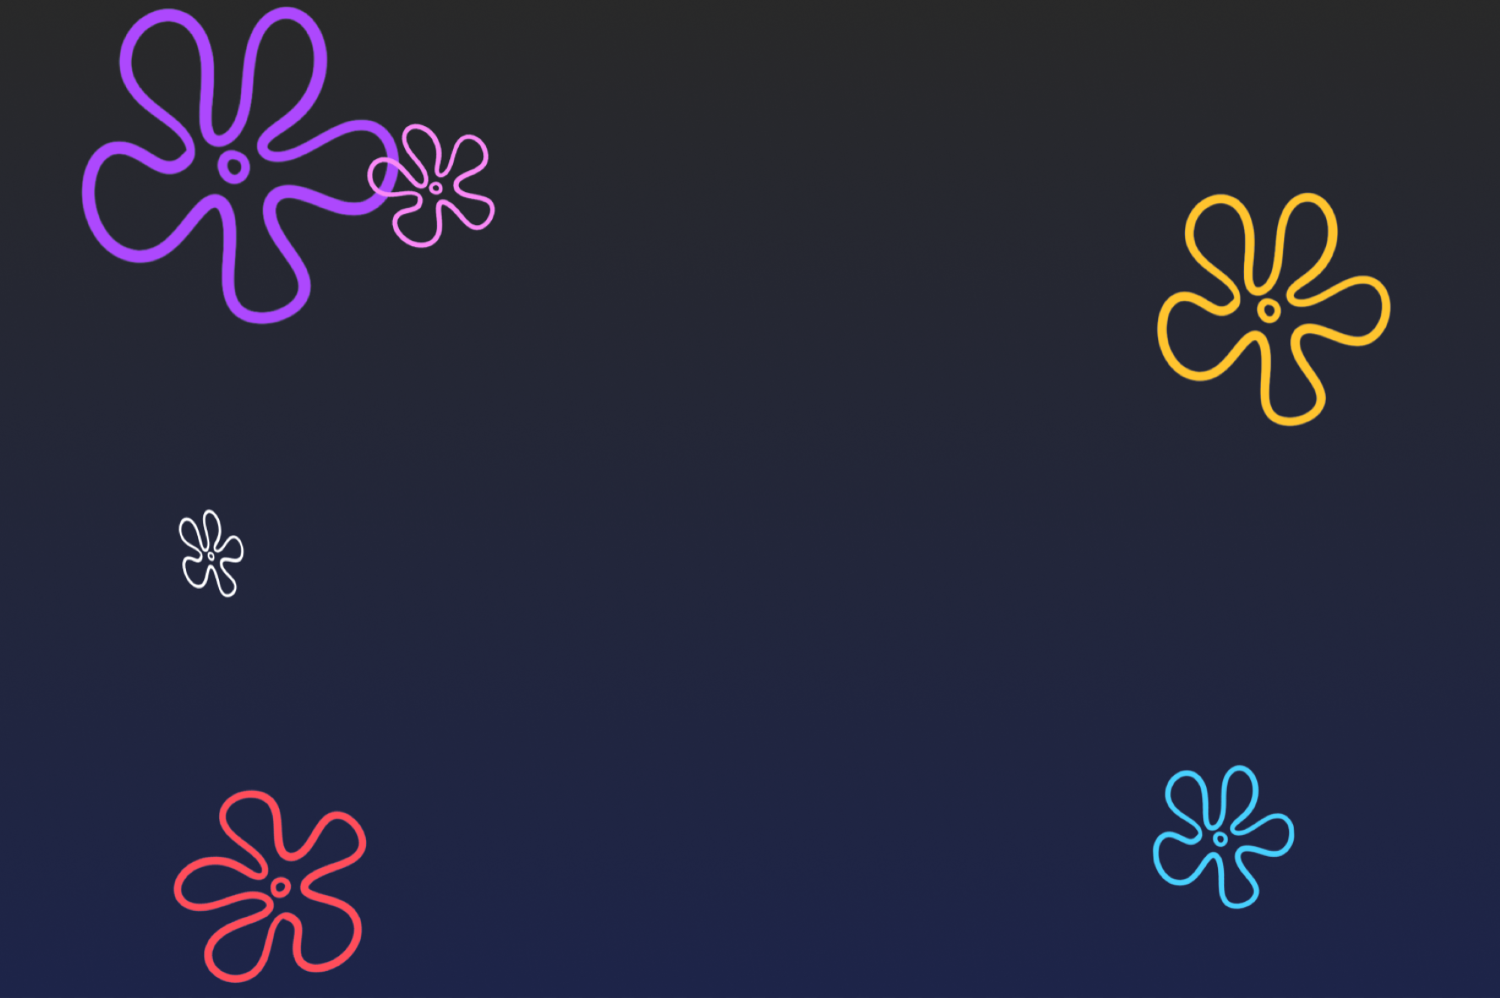
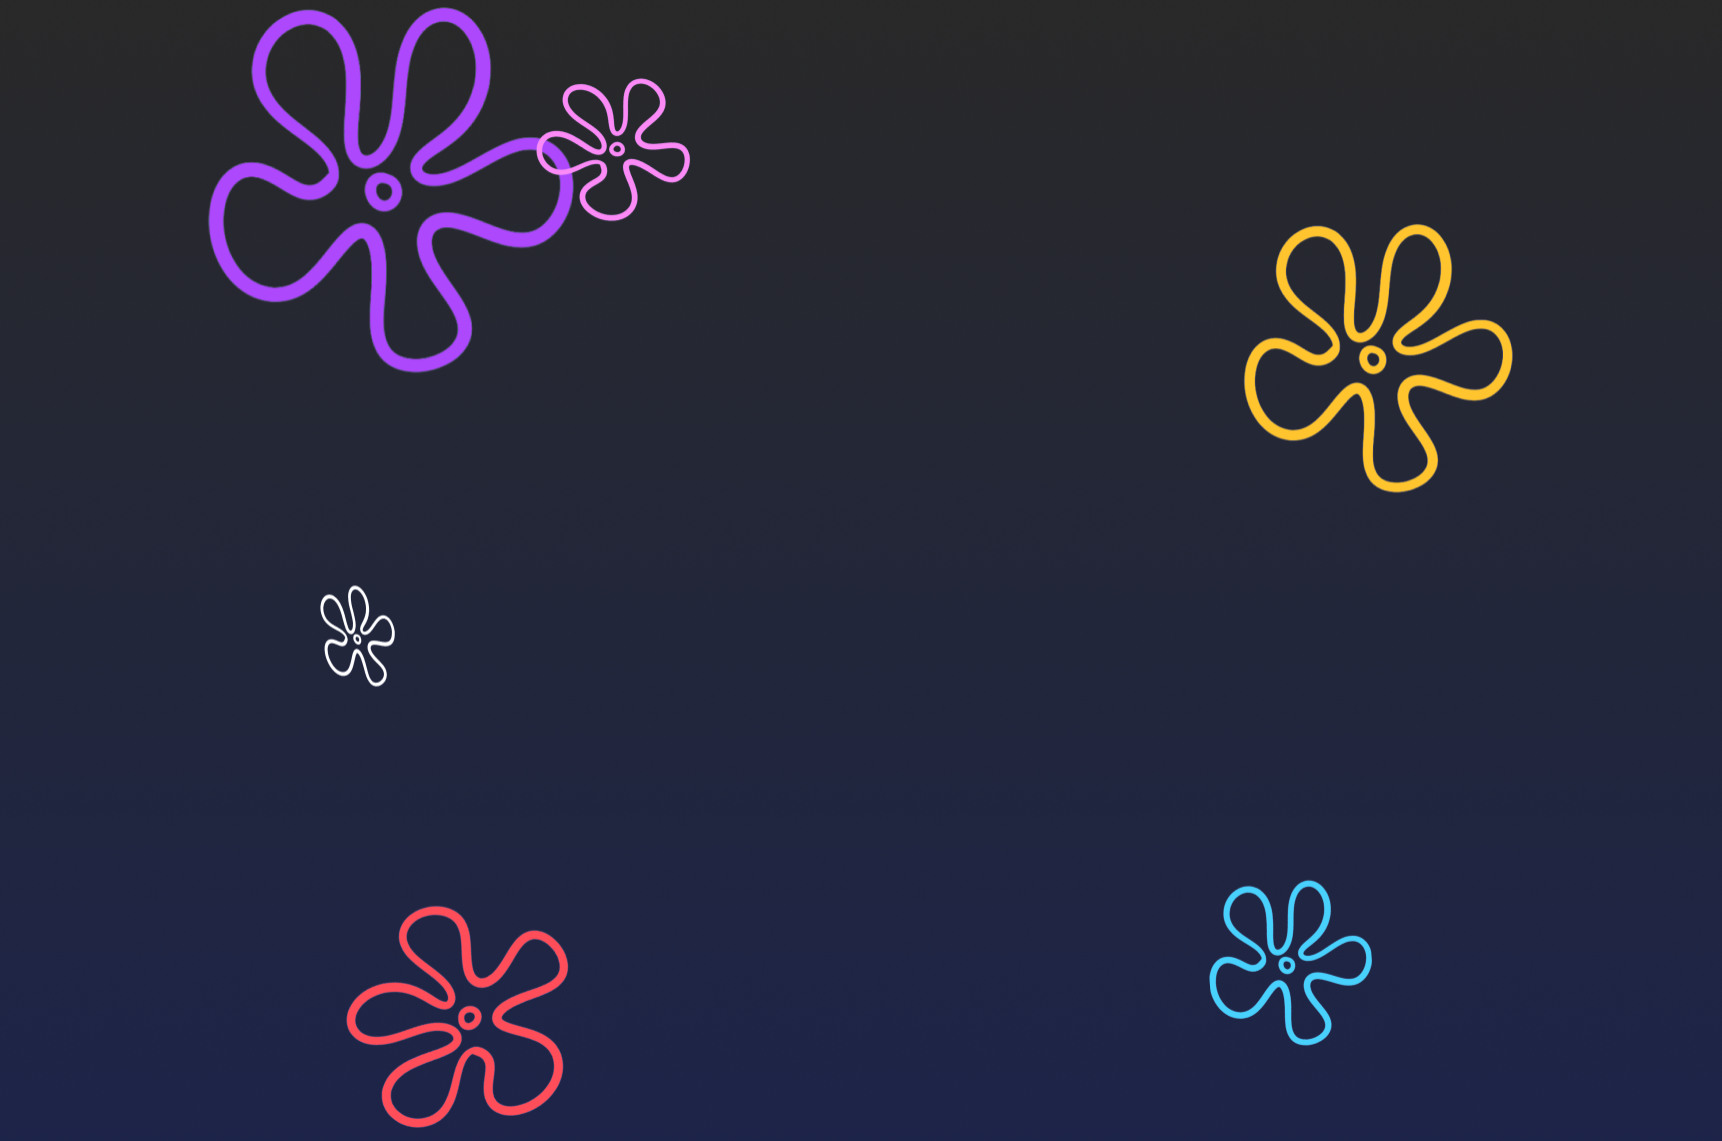
Add ba kground image for each page size. Add transitions to each page component

diff --git a/src/pages/Experience.tsx b/src/pages/Experience.tsx
@@ -1,11 +1,15 @@
-import { useEffect, useRef } from "react";
+import { useEffect, useRef, useState } from "react";
 import Background from "../components/Background";
 import ExperienceCard from "../components/ExperienceCard";
 import { experiencesData } from "../lib/data";
 
 export default function Experience() {
-    // Create a ref for the content container
+    const [isVisible, setIsVisible] = useState(false);
     const contentContainerRef = useRef<HTMLDivElement>(null);
+
+    useEffect(() => {
+        setIsVisible(true);
+    }, []);
 
     useEffect(() => {
         // Scroll to the top of the content container when the component mounts
@@ -24,7 +28,11 @@ export default function Experience() {
     return (
         <div className="relative">
             <Background />
-            <div className="absolute inset-0">
+            <div
+                className={`transition opacity transform duration-1000 absolute inset-0 ${
+                    isVisible ? "opacity-100 scale-100" : "opacity-0 scale-95"
+                }`}
+            >
                 <div
                     ref={contentContainerRef}
                     className="flex justify-evenly items-center flex-col relative z-30 mx-auto mt-4 sm:mt-6 xl:mt-12 w-[90%] sm:w-[85%] md:w-[80%] lg:w-[85%] xl:max-w-[1340px] bg-custom-gradient-5 rounded-xl text-white pt-4 pb-4 lg:pb-8 px-3"

diff --git a/src/pages/About.tsx b/src/pages/About.tsx
@@ -1,11 +1,22 @@
+import { useEffect, useState } from "react";
 import Background from "../components/Background";
 import { Link } from "react-router-dom";
 
 export default function About() {
+    const [isVisible, setIsVisible] = useState(false);
+
+    useEffect(() => {
+        setIsVisible(true);
+    }, []);
+
     return (
-        <div className="relative">
+        <div className="relative h-full pb-24">
             <Background />
-            <div className="absolute inset-0">
+            <div
+                className={`transition opacity transform duration-1000 absolute inset-0 h-full mb-24 ${
+                    isVisible ? "opacity-100 scale-100" : "opacity-0 scale-95"
+                }`}
+            >
                 <div className="flex flex-col items-center relative z-30 mx-auto mt-4 sm:mt-6 xl:mt-12 w-[90%] sm:w-[85%] md:w-[80%] lg:w-[85%] xl:max-w-[1340px]  bg-custom-gradient-5 rounded-xl text-white pt-4 pb-10 lg:pb-14 px-4 sm:px-6 overflow-y-auto">
                     <h1 className="text-2xl sm:text-3xl xl:text-4xl font-heading drop-shadow-heading py-4 md:py-5">
                         About Me

diff --git a/src/pages/Contact.tsx b/src/pages/Contact.tsx
@@ -1,11 +1,22 @@
 import { Link } from "react-router-dom";
 import Background from "../components/Background";
+import { useState, useEffect } from "react";
 
 export default function Contact() {
+    const [isVisible, setIsVisible] = useState(false);
+
+    useEffect(() => {
+        setIsVisible(true);
+    }, []);
+
     return (
         <div className="relative">
             <Background />
-            <div className="absolute inset-0">
+            <div
+                className={`transition opacity transform duration-1000 absolute inset-0 ${
+                    isVisible ? "opacity-100 scale-100" : "opacity-0 scale-95"
+                }`}
+            >
                 <div className="flex justify-center items-center text-center flex-col relative z-30 mx-auto mt-4 sm:mt-6 xl:mt-12 w-[80%] min-w-[220px] sm:w-max xl:w-[650px] bg-custom-gradient-3 rounded-xl text-white py-8 sm:py-10 lg:py-14 xl:py-28 px-4 sm:px-14 lg:px-20 gap-4 xl:gap-6">
                     <div className="h-[200px] xl:h-[250px] w-[200px] xl:w-[250px] rounded-full border-4 border-[#4865FD] overflow-hidden">
                         <img

diff --git a/src/pages/Projects.tsx b/src/pages/Projects.tsx
@@ -1,12 +1,23 @@
+import { useState, useEffect } from "react";
 import Background from "../components/Background";
 import ProjectCard from "../components/ProjectCard";
 import { projectsData } from "../lib/data";
 
 export default function Projects() {
+    const [isVisible, setIsVisible] = useState(false);
+
+    useEffect(() => {
+        setIsVisible(true);
+    }, []);
+
     return (
         <div className="relative">
             <Background />
-            <div className="absolute inset-0">
+            <div
+                className={`transition opacity transform duration-1000 absolute inset-0 ${
+                    isVisible ? "opacity-100 scale-100" : "opacity-0 scale-95"
+                }`}
+            >
                 <div className="flex items-center flex-col relative z-30 mx-auto mt-4 sm:mt-6 xl:mt-12 w-[90%] min-w-[280px] sm:w-[85%] xl:max-w-[1340px] bg-custom-gradient-3 rounded-xl text-white pt-4 pb-10 lg:pb-14 px-3 sm:px-6">
                     <h1 className="text-2xl sm:text-3xl xl:text-4xl font-heading drop-shadow-heading py-4 md:py-5">
                         Projects

diff --git a/src/pages/HomePage.tsx b/src/pages/HomePage.tsx
@@ -1,10 +1,21 @@
+import { useEffect, useState } from "react";
 import Background from "../components/Background";
 
 export default function HomePage() {
+    const [isVisible, setIsVisible] = useState(false);
+
+    useEffect(() => {
+        setIsVisible(true);
+    }, []);
+
     return (
         <div className="relative">
             <Background />
-            <div className="absolute inset-0">
+            <div
+                className={`transition opacity transform duration-1000 absolute inset-0 ${
+                    isVisible ? "opacity-100 scale-100" : "opacity-0 scale-95"
+                }`}
+            >
                 <div className="flex justify-center items-center text-center flex-col relative z-30 mx-auto mt-4 sm:mt-6 xl:mt-12 w-[80%] min-w-[220px] sm:w-max bg-custom-gradient-3 rounded-xl text-white py-8 sm:py-10 xl:py-16 px-4 sm:px-7 md:px-10 gap-4 xl:gap-6">
                     <div className="h-[200px] xl:h-[250px] w-[200px] xl:w-[250px] rounded-full border-4 border-[#4865FD] overflow-hidden">
                         <img

diff --git a/src/index.css b/src/index.css
@@ -159,9 +159,21 @@ body {
     }
 }
 
+@media (min-width: 768px) {
+    .background {
+        background-image: url("/spongebob-flowers-md.png");
+    }
+}
+
 @media (min-width: 1024px) {
     .background {
         background-image: url("/spongebob-flowers-lg.png");
+    }
+}
+
+@media (min-width: 1280px) {
+    .background {
+        background-image: url("/spongebob-flowers-xl.png");
     }
 }
 
